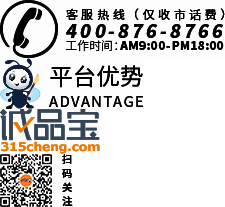
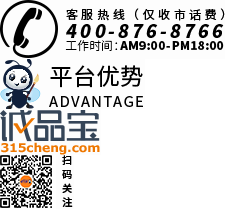
底部图片改为png24

diff --git a/zero/01PC商城/0101电商前台/010104商品详情(精品).html b/zero/01PC商城/0101电商前台/010104商品详情(精品).html
@@ -26,7 +26,6 @@
 <link type="text/css" rel="stylesheet" href="../shop2015/css/amazeui.min.css?v=20150831">
 <link type="text/css" rel="stylesheet" href="../shop2015/css/app.css?v=20150831">
 </head>
-<!--<body class="body-detail">-->
 <body>
 <div class="topbar wh" data-am-sticky>
     <div class="hd">
@@ -135,12 +134,52 @@
 </div>
 <!-- //End--header-->
 <div id="section1" class="section">
-    <article class="sectionWrapper">
+    <div class="hd">
+        <div class="img-bg"><img src="../shop2015/upload/fine-1.jpg" alt=""/></div>
+        <div class="share">
+            <!-- JiaThis Button BEGIN -->
+            <div class="jiathis_style">
+                <span class="jiathis_txt">分享到</span>
+                <a class="jiathis_button_weixin"></a>
+                <a class="jiathis_button_tqq"></a>
+                <a class="jiathis_button_cqq"></a>
+                <a class="jiathis_button_tsina"></a>
+            </div>
+            <!-- JiaThis Button END -->
+        </div>
+        <!-- //End--分享-->
+        <!--<div class="nav">-->
+            <!--<ul>-->
+                <!--<li class="active"><a href="javascript:"><i class="icon icon-top"></i>概览<i class="icon icon-down"></i></a></li>-->
+                <!--<li class="line"></li>-->
+                <!--<li><a href="javascript:"><i class="icon icon-top"></i>详情<i class="icon icon-down"></i></a></li>-->
+                <!--<li class="line"></li>-->
+                <!--<li><a href="javascript:"><i class="icon icon-top"></i>鉴赏<i class="icon icon-down"></i></a></li>-->
+                <!--<li class="line"></li>-->
+                <!--<li><a href="javascript:"><i class="icon icon-top"></i>技艺<i class="icon icon-down"></i></a></li>-->
+                <!--<li class="line"></li>-->
+                <!--<li><a href="javascript:"><i class="icon icon-top"></i>保养<i class="icon icon-down"></i></a></li>-->
+            <!--</ul>-->
+        <!--</div>-->
+        <!-- //End--nav-->
+        <!--<div class="info">-->
+            <!--<div class="name">姚 惠 芬</div>-->
+            <!--<div class="title">-->
+                <!--<p>平遥推光漆器</p>-->
+                <!--<p>国家级非物质文化遗产</p>-->
+            <!--</div>-->
+            <!--<div class="name-img">-->
+                <!--<p>安格尔|公爵夫人肖像</p>-->
+            <!--</div>-->
+        <!--</div>-->
+        <!--&lt;!&ndash; //End&#45;&#45;基本信息&ndash;&gt;-->
+        <!--<div class="btn-add"><a href="" title="立即购买">立即购买</a></div>-->
+        <!--<div class="btn-arrow-down"><a class="icon" href=""></a></div>-->
 
-    </article>
+    </div>
 </div>
 <!--//End--概览-->
-<div id="section2" class="section">
+<div class="section">
 
 </div>
 <!--//End--鉴赏-->
@@ -165,12 +204,9 @@ $(function(){
     var dWidth=$(window).width();
     var dHeight=$(window).height();
 
-
-
-    
-
+//
 //    $('.detail-fine .img-bg img').css({'width':dWidth});
-//    $('.header-fine .nav .ul-list,#section1').css({'height':dHeight-86});
+//    $('.header-fine .nav .ul-list,.section').css({'height':dHeight-86});
 //    $('#menu-fine').click(function(){
 //        $(this).siblings('.mask').toggleClass('visible').siblings('.ul-list').stop(true,true).slideToggle(200);
 //        $(this).siblings('.mask').click(function(){
@@ -189,24 +225,15 @@ $(function(){
 //            $('body').css({'overflow':'visible'});
 //        }
 //    })
-//
-//
-//    //导航点击
-//    $('#section1 .item').click(function(){
-//        $(this).addClass('active').siblings('li').removeClass('active');
-//        $('#section1 .sec-details').animate({'bottom':'-100%'},100);
-//    })
-//
-//    //精品详情
-//    $('#section1 .item2').click(function(){
-//        $(this).addClass('active').siblings('li').removeClass('active');
-//        $('#section1 .sec-details').animate({'bottom':'0'},300,'linear');
-//        $('#section1 .icon-close').click(function(){
-//            $(this).parents('.sec-details').animate({'bottom':'-100%'},300,'linear');
-//        })
-//    })
-//
-//
+
+
+    //导航点击
+    $('.section .wrap .nav li').click(function(){
+        $(this).addClass('active').siblings('li').removeClass('active');
+    })
+
+
+
 
 })
 </script>

diff --git a/zero/01PC商城/shop2015/css/app.css b/zero/01PC商城/shop2015/css/app.css
@@ -27,7 +27,7 @@ a:hover {color:#f00;text-decoration:underline}
 .topbar .ul-item li.cart:hover {background:#fff}
 .topbar .ul-item li.cart a:hover {background:none;color:#000}
 .topbar .ul-item li.cart a:hover .icon {background-position:0 -63px}
-.am-sticky-placeholder {background:#000;width:100%;float:left}
+.am-sticky-placeholder {background:#000;width:100%;float:left; position: relative; z-index: 2;}
 /*--//End--topbar--*/
 .header {min-width:1200px;border-bottom:3px #000 solid;background:#fff}
 .header .logo {padding:15px 0;float:left}
@@ -405,7 +405,7 @@ a:hover {color:#f00;text-decoration:underline}
 .footer .service .platform a {width:143px;height:51px;line-height:999px;float:left;overflow:hidden}
 .footer .service .chengbao {background-position:0 -109px;width:100px;height:45px}
 .footer .service .chengbao a {width:137px;height:61px;line-height:999px;float:left;overflow:hidden}
-.footer .service .wechat {background-position:0 -154px;width:73px;height:53px}
+.footer .service .wechat {background-position:0 -155px;width:73px;height:53px;position:relative;top:5px;}
 .footer .service .line {width:2px;height:42px;display:inline-block;margin:0 30px;background:#c1c1c1}
 .footer .links {background:#000;height:16px;line-height:16px;text-align:center;padding:15px 0}
 .footer .links a {margin:0 10px;display:inline-block;box-sizing:content-box;color:#fff;font-family:FangSong}
@@ -433,12 +433,15 @@ html, body {
     height: 100%;
 }
 
-.section {    width: 100%;
+.section {width: 100%;
     min-width: 1000px;
     height: 100%;
     position: relative;
-    background: #419dea;
-    display: block;}
+    background: #ccc;
+    display: block;
+    z-index: 1;
+    overflow: hidden;
+}
 
 #section1 {
 
